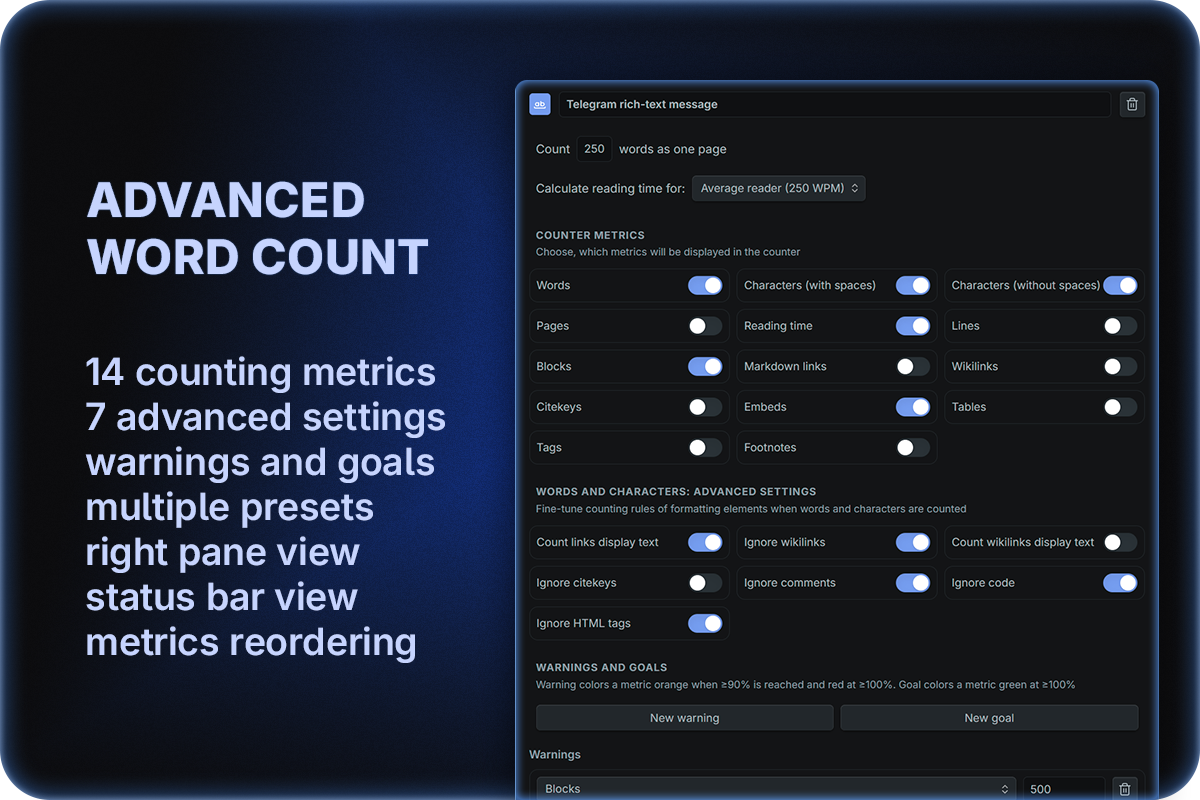
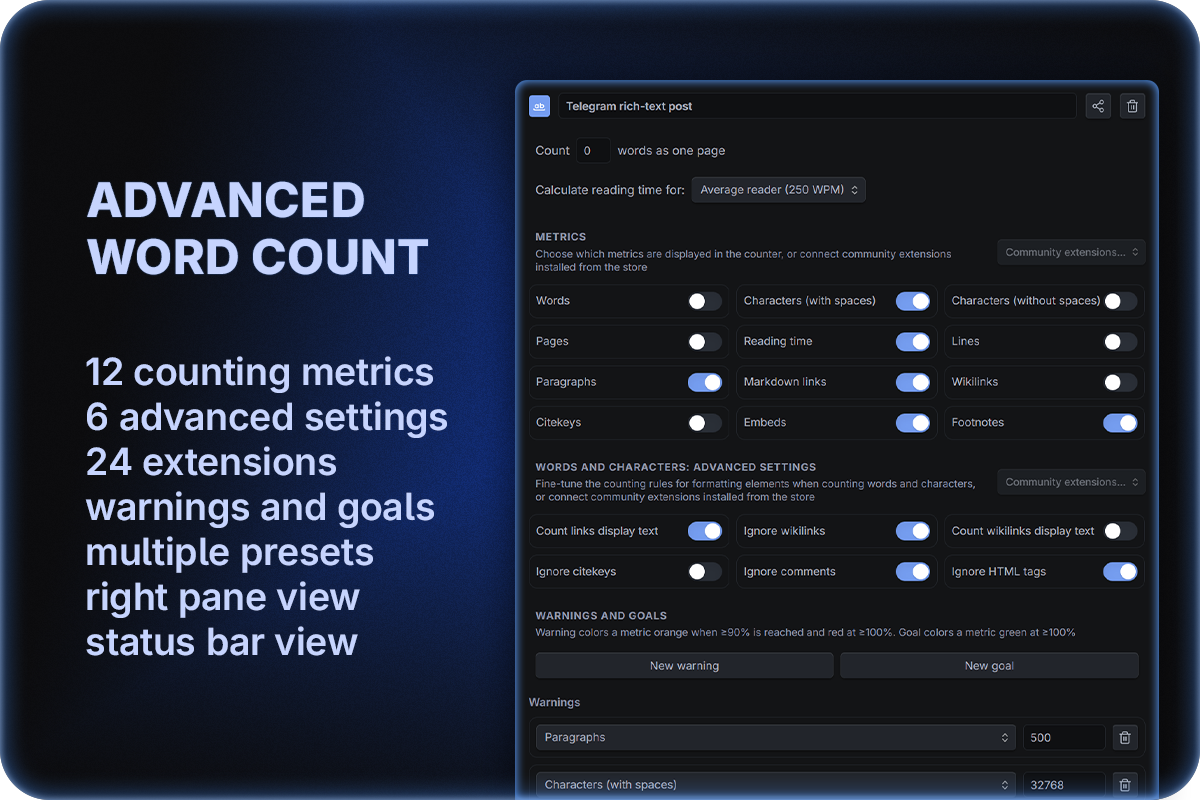
Demo screenshots update

diff --git a/README.md b/README.md
@@ -7,7 +7,12 @@ This plugin allows you to create complex word count presets that are displayed i
 <div align="center">
   <img src="media/1-cover.png"width="100%" />
 </div>
-
+<div align="center">
+<img src="media/2-right-pane.png"width="48%" />
+</div>
+<div align="center">
+<img src="media/3-community-store.png"width="48%" />  
+</div>
 
 ## Features
 
